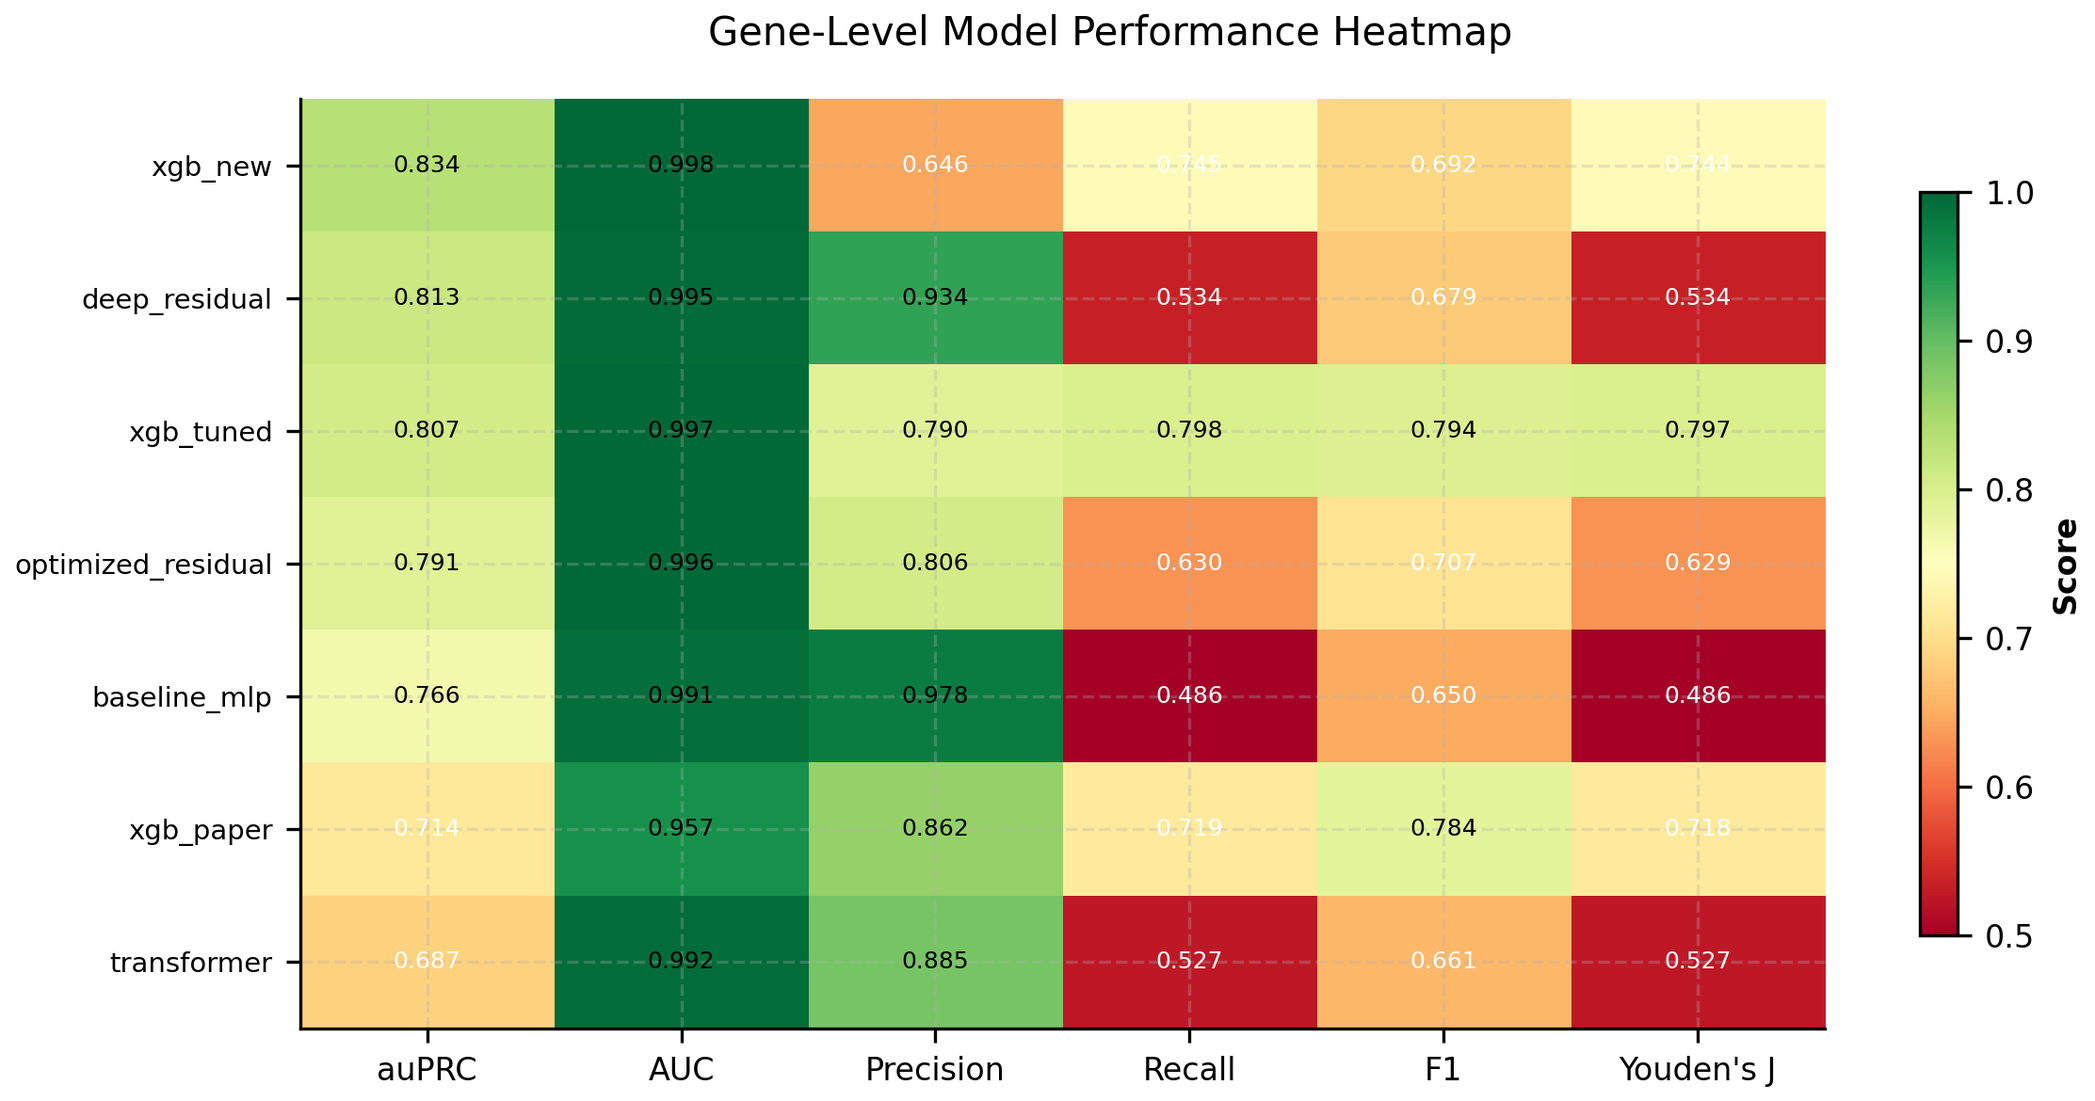
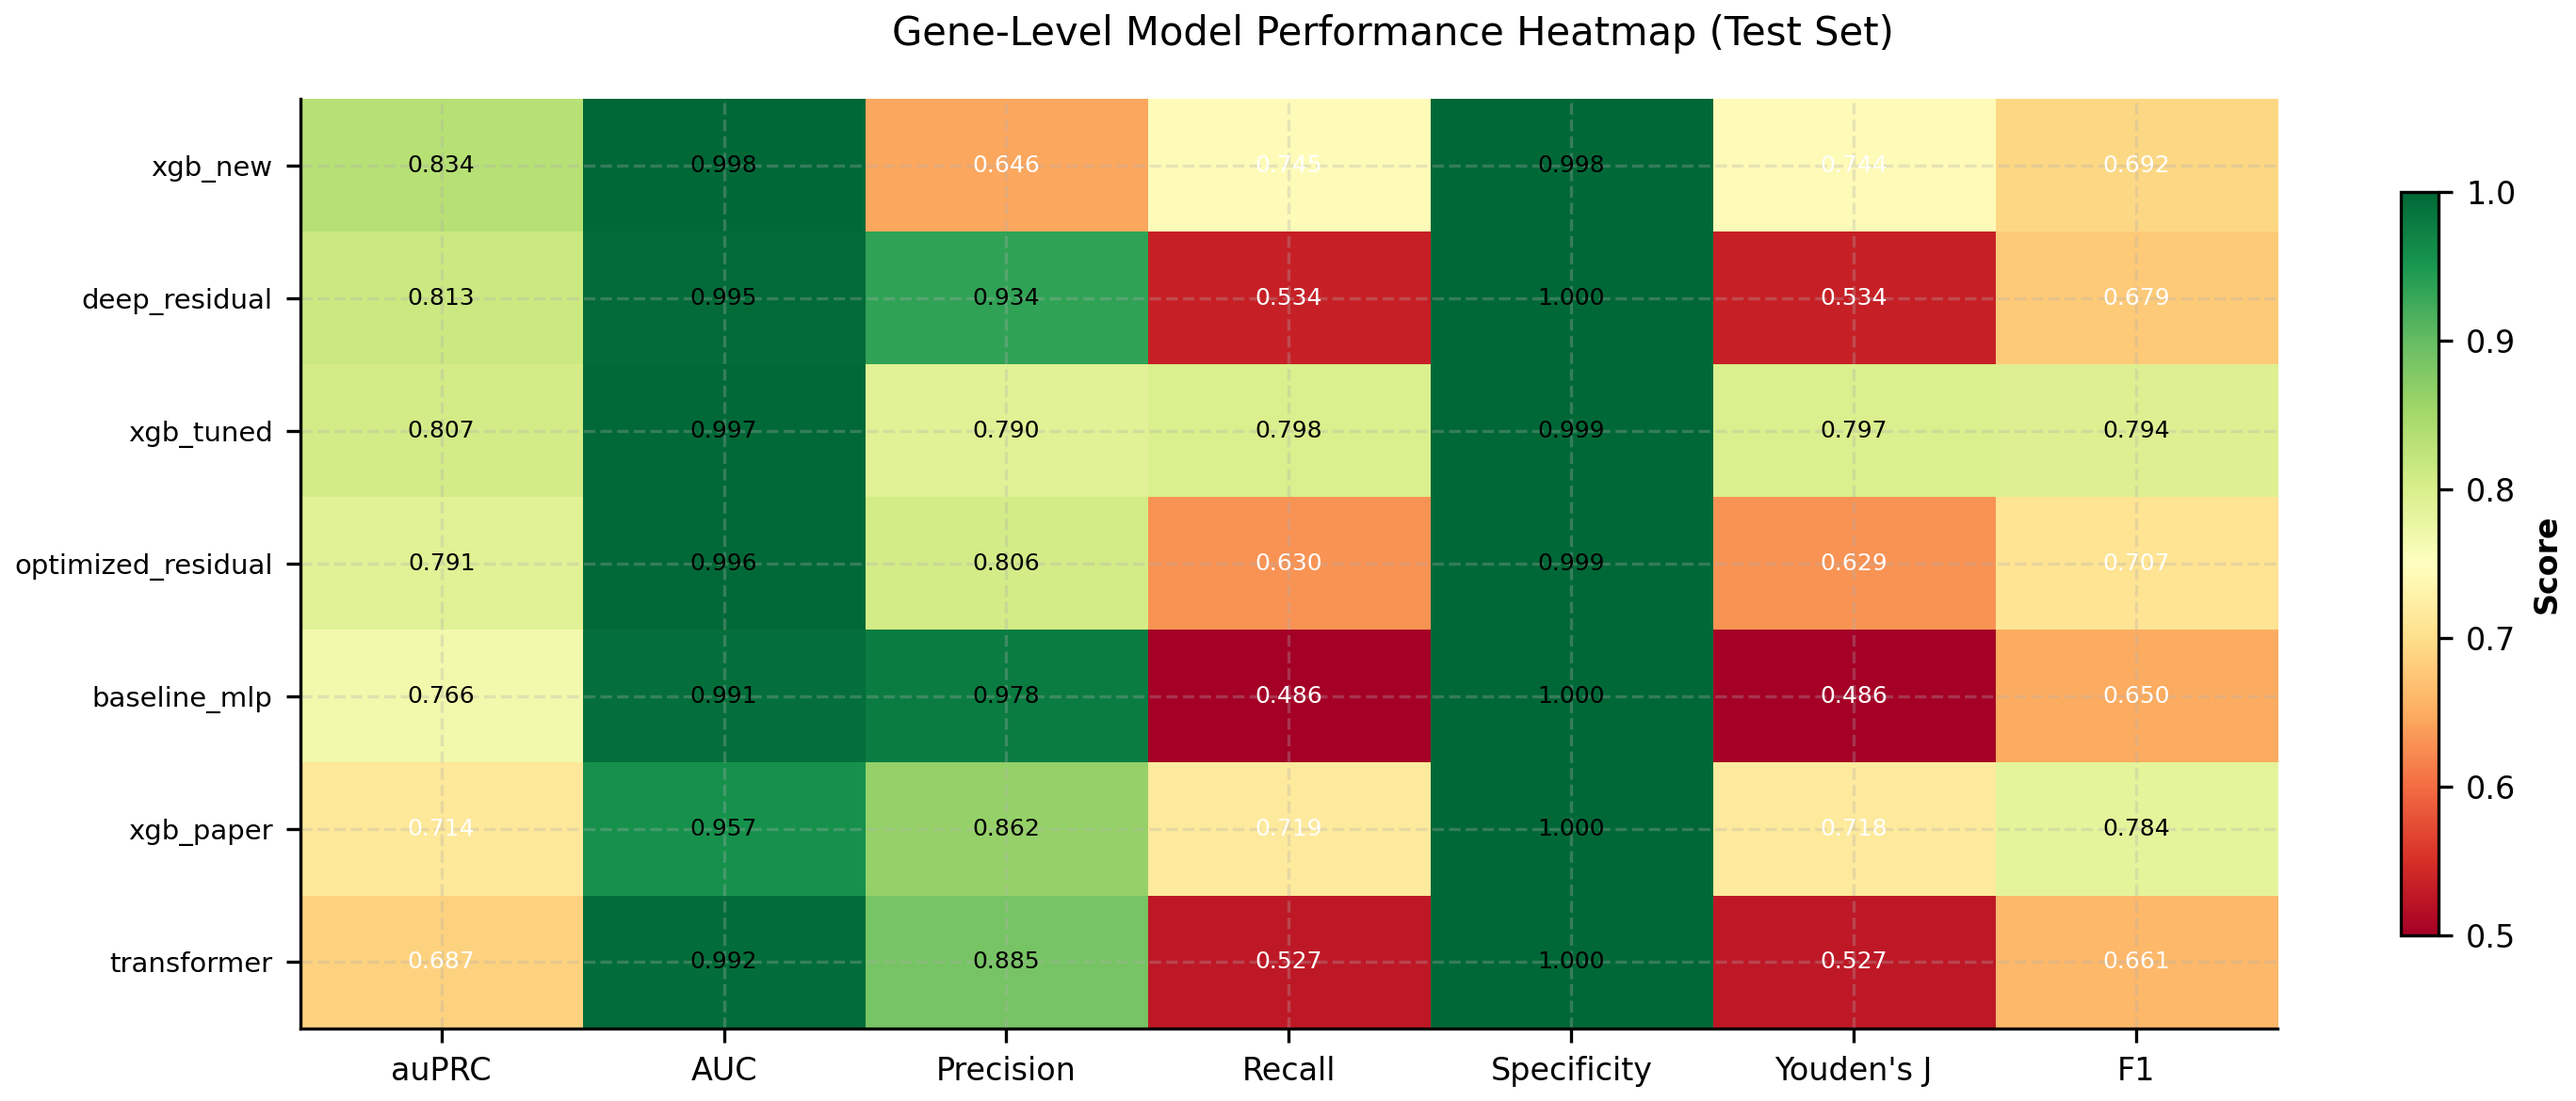
enhance: Update Figure 6 to show 7 metrics including Specificity
- Added Specificity to Gene-Level Model Performance Heatmap (Figure 6)
- Updated heatmap from 6 to 7 metrics: auPRC, AUC, Precision, Recall, Specificity, Youden's J, F1
- Adjusted figure size from (8, 4) to (10, 4) for better readability
- Updated report description to reflect 7 metrics instead of 6

diff --git a/otk_api/model_analyzer.py b/otk_api/model_analyzer.py
@@ -929,7 +929,7 @@ class ModelAnalyzer:
         lines.append("")
         lines.append("![Model Ranking Heatmap](model_ranking_heatmap.png)")
         lines.append("")
-        lines.append("*Figure 6: Gene-level model performance heatmap on test set. Six metrics are compared: auPRC, AUC, Precision, Recall, F1, and Youden's J. Darker green indicates better performance.*")
+        lines.append("*Figure 6: Gene-level model performance heatmap on test set. Seven metrics are compared: auPRC, AUC, Precision, Recall, Specificity, Youden's J, and F1. Darker green indicates better performance.*")
         lines.append("")
 
         if sample_evaluated:
@@ -1500,10 +1500,10 @@ class ModelAnalyzer:
         print(f"Saved: {output_dir / 'performance_radar.png'}")
         
         # 6. Gene-Level Model Ranking Heatmap
-        fig, ax = plt.subplots(figsize=(8, 4))
-        fig.suptitle('Gene-Level Model Performance Heatmap', fontsize=10)
-        
-        metrics_for_heatmap = ['auPRC', 'AUC', 'Precision', 'Recall', 'F1', "Youden's J"]
+        fig, ax = plt.subplots(figsize=(10, 4))
+        fig.suptitle('Gene-Level Model Performance Heatmap (Test Set)', fontsize=10)
+
+        metrics_for_heatmap = ['auPRC', 'AUC', 'Precision', 'Recall', 'Specificity', "Youden's J", 'F1']
         heatmap_data = []
         for m in sorted_models:
             row = [
@@ -1511,25 +1511,26 @@ class ModelAnalyzer:
                 m.test_metrics.AUC,
                 m.test_metrics.Precision,
                 m.test_metrics.Recall,
-                m.test_metrics.F1,
-                m.test_metrics.Youdens_J
+                m.test_metrics.Specificity,
+                m.test_metrics.Youdens_J,
+                m.test_metrics.F1
             ]
             heatmap_data.append(row)
-        
+
         heatmap_array = np.array(heatmap_data)
         im = ax.imshow(heatmap_array, cmap='RdYlGn', aspect='auto', vmin=0.5, vmax=1.0)
-        
+
         ax.set_xticks(np.arange(len(metrics_for_heatmap)))
         ax.set_xticklabels(metrics_for_heatmap, fontsize=8)
         ax.set_yticks(np.arange(len(sorted_models)))
         ax.set_yticklabels([m.name for m in sorted_models], fontsize=7)
-        
+
         for i in range(len(sorted_models)):
             for j in range(len(metrics_for_heatmap)):
                 text = ax.text(j, i, f'{heatmap_array[i, j]:.3f}',
                               ha='center', va='center', fontsize=6,
                               color='white' if heatmap_array[i, j] < 0.75 else 'black')
-        
+
         cbar = plt.colorbar(im, ax=ax, shrink=0.8)
         cbar.set_label('Score', fontsize=8)
 

diff --git a/otk_api/models/model_analysis_report.md b/otk_api/models/model_analysis_report.md
@@ -1,6 +1,6 @@
 # Model Performance Analysis Report
 
-**Generated**: 2026-02-23 12:46:10
+**Generated**: 2026-02-23 21:57:58
 **Total Models**: 7 trained models
 
 ## Abstract
@@ -97,7 +97,7 @@ performance metrics including auPRC, AUC, Precision, Recall, and F1-score.
 
 ![Model Ranking Heatmap](model_ranking_heatmap.png)
 
-*Figure 6: Gene-level model performance heatmap on test set. Six metrics are compared: auPRC, AUC, Precision, Recall, F1, and Youden's J. Darker green indicates better performance.*
+*Figure 6: Gene-level model performance heatmap on test set. Seven metrics are compared: auPRC, AUC, Precision, Recall, Specificity, Youden's J, and F1. Darker green indicates better performance.*
 
 #### Figure 7: Sample-Level Model Performance Heatmap (Test Set)
 

diff --git a/otk_api/static/model_analysis_report.md b/otk_api/static/model_analysis_report.md
@@ -1,6 +1,6 @@
 # Model Performance Analysis Report
 
-**Generated**: 2026-02-23 12:46:10
+**Generated**: 2026-02-23 21:57:58
 **Total Models**: 7 trained models
 
 ## Abstract
@@ -97,7 +97,7 @@ performance metrics including auPRC, AUC, Precision, Recall, and F1-score.
 
 ![Model Ranking Heatmap](model_ranking_heatmap.png)
 
-*Figure 6: Gene-level model performance heatmap on test set. Six metrics are compared: auPRC, AUC, Precision, Recall, F1, and Youden's J. Darker green indicates better performance.*
+*Figure 6: Gene-level model performance heatmap on test set. Seven metrics are compared: auPRC, AUC, Precision, Recall, Specificity, Youden's J, and F1. Darker green indicates better performance.*
 
 #### Figure 7: Sample-Level Model Performance Heatmap (Test Set)
 
